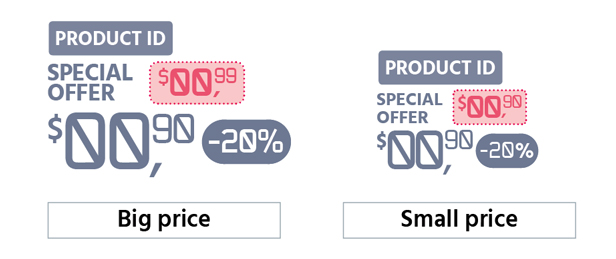
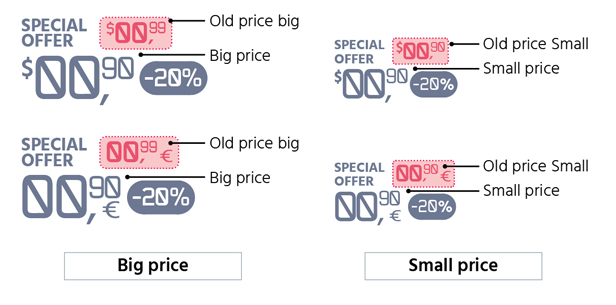
updt

diff --git a/brochure/index.html b/brochure/index.html
@@ -14,15 +14,22 @@
 <div>
 <strong>Features:</strong>
 <ul  style="color:#bababa; margin-left:30px;">
-				<li>Well arranged four layers:
+				<li><strong>Well arranged layout in four layers:</strong>
                 <ul><li>Images Top</li><li>Text</li><li>Images Bottom</li><li>Background</li></ul></li>
-				<li>Well arranged text styles</li>
-				<li>Modular Product Rows</li>
-					<li><ul><li>1 product per row</li><li>2 products per row<br><img src="https://raw.githubusercontent.com/akidaniel/almacen/gh-pages/brochure/images/products_2.jpg" alt="2Products per row" ></li><li>3 products per row</li><li>4 products per row</li><li>5 products per row</li><li>6 products per row</li></ul></li>
-				<li>Prices with GREP Styles optimized for $ and €</li>
-				<li>Two different prices styles sizes</li>
+				<li><strong>Well arranged text styles</strong></li>
+				<li><strong>Modular Product Rows</strong>
+					<br>Customize the layout of your design using one, two, three, four, five or six products per row on each page<br><img src="https://raw.githubusercontent.com/akidaniel/almacen/gh-pages/brochure/images/products_2.jpg" alt="Products per row" ></li>
+				<li><strong>Prices with GREP Styles optimized for $ and € wich includes</strong>
+                
+                <ul><li>Auto superscript in cents</li><li>Auto hidden ",00" cents</li><li>Auto percentage style after the price</li><li>Auto superscript to the $ symbol</li><li>Auto subscript to the € symbol</li><li>Auto negative indentation to the € symbol (in the offer price)</li></ul>
+                
+                
+                
+                
+                </li>
+				<li><strong>Two different prices styles in two sizes</strong> <ul><li>Old Price Small</li><li>Old Price Big</li><li>Price Small</li><li>Price Big</li></ul><br><img src="https://raw.githubusercontent.com/akidaniel/almacen/gh-pages/brochure/images/price_size.jpg" alt="Price sizes" ></li>
 
-				<li>32 Color Bullets Styles<br><img src="https://raw.githubusercontent.com/akidaniel/almacen/gh-pages/brochure/images/colors.jpg" alt="Color Styles" ></li>
+				<li><strong>32 Color Bullets Styles</strong><br><img src="https://raw.githubusercontent.com/akidaniel/almacen/gh-pages/brochure/images/colors.jpg" alt="Color Styles" ></li>
 				<li>Main colors easily customizable</li>
 				<li>Well arranged text styles</li>
 				<li>Well arranged text styles</li>
